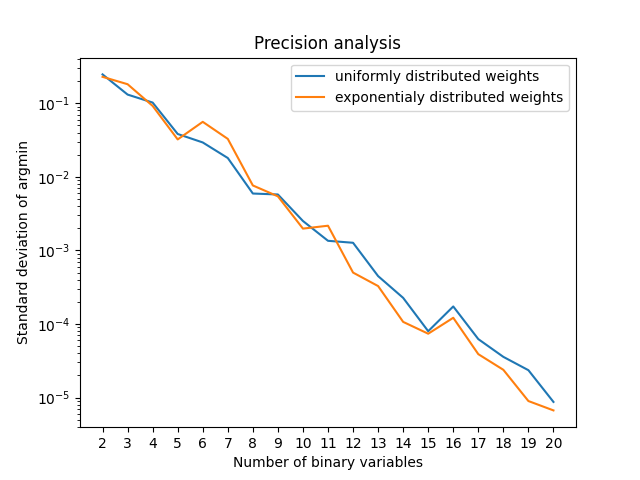
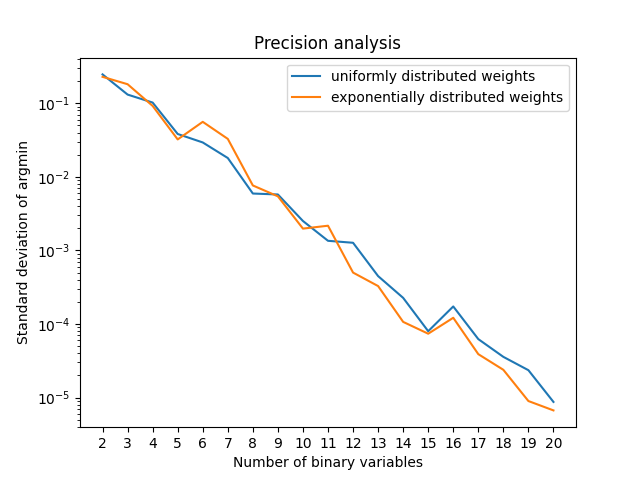
minor change

Changed region(s): [[0.5, 0.125, 0.875, 0.2188], [0.4375, 0.1562, 0.4688, 0.2188]]

diff --git a/plot_results.py b/plot_results.py
@@ -19,7 +19,7 @@ plt.title('Precision analysis')
 N, M, S = read_file('data/precision_uniform_weights.txt')
 plt.plot(N, S, label = 'uniformly distributed weights')
 N, M, S = read_file('data/precision_exponential_weights_scale_1.txt')
-plt.plot(N, S, label = 'exponentialy distributed weights')
+plt.plot(N, S, label = 'exponentially distributed weights')
 plt.yscale('log')
 plt.legend()
 plt.xlabel('Number of binary variables')
